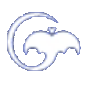
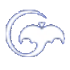
Header - OK / asssets items added

diff --git a/src/components/Header/styles.ts b/src/components/Header/styles.ts
@@ -1,0 +1,97 @@
+import styled from 'styled-components';
+
+export const Container = styled.header`
+  background: var(--azul);
+`
+
+export const Content = styled.div`
+  width: 100%;
+
+  padding: 0.5rem 1rem;
+  display:flex;
+
+  justify-content: space-between;
+  
+  .header-items-left {
+    img {
+      &:first-child {
+        margin-right: 1rem;
+        height: 3.1rem;
+      }
+    }
+    align-items: center;
+    width: 50%;
+    display:flex;
+
+    div {
+      color: #fff;
+      
+      span{
+        display: flex;
+        &:first-child {
+          font-weight: 900;
+          font-size: 1.3rem;
+          line-height: 1.1rem;
+          font-family: cursive;
+        }
+        
+        &:last-child {
+          font-weight: 700;
+          font-size: 0.7rem;
+        }
+      }
+    }
+  }
+  
+  .header-items-right {
+    display:flex;
+    
+    .search-area {
+      display:flex;
+      align-items: center;
+
+      button {
+        outline: none;
+        padding: 0.3rem;
+        border-radius: 12px 0 0 12px;
+        border: none;
+        /* border-color:transparent; */
+        background-color: var(--background);
+        /* margin-right: -1px; */
+        
+        img{
+          padding: 0.4rem;
+          height: 2rem;
+        }
+      }
+      
+      input {
+        outline: none;
+        background-color: var(--background);
+        width: 30rem;
+        padding: 0.6rem 1rem;
+        
+        border-radius: 0 12px 12px 0;
+        /* border-style: outset; */
+        border: none;
+        
+        color: var(--cinza);
+        font-weight: 600;
+        font-size: 1.3rem;
+      }
+    }
+
+    .icons-area{
+      display:flex;
+    
+      .profile-img {
+        border-radius: 50%;
+        height: 3rem;
+      }
+      img {
+        margin: auto 1.7rem;
+        height: 1.5rem;
+      }
+    }
+  }
+`

diff --git a/src/components/Header/index.tsx b/src/components/Header/index.tsx
@@ -1,0 +1,45 @@
+import logoSquareImg from '../../assets/icon_squares.png';
+import logoWetBatImg from '../../assets/Bat.png';
+
+import iconSearchImg from '../../assets/icon_search.png';
+
+import iconNotificationImg  from '../../assets/icon_Notification.png';
+import iconMessageImg       from '../../assets/icon_Message.png';
+import iconSettingsImg      from '../../assets/icon_Settings.png';
+import profileImg           from '../../assets/profile_Img.jpg';
+
+import { Container, Content } from './styles'
+
+export function Header() {
+  return (
+    <Container>
+      <Content>
+        <div className="header-items-left">
+          <img src={logoSquareImg} alt="Logo Square"/>
+          <img src={logoWetBatImg} alt="Logo WetBat"/>
+          <div>
+            <span>Wet Bat</span>
+            <span>TRAVEL</span>
+          </div>
+        </div>
+
+
+        <div className="header-items-right">
+          <div className="search-area">
+            <button type="button">
+              <img src={iconSearchImg} alt="serch"/>
+            </button>
+            <input type="text" ></input>
+          </div>
+          <div className="icons-area">
+            <img src={iconNotificationImg} alt="Notifications"/>
+            <img src={iconMessageImg} alt="Messages"/>
+            <img src={iconSettingsImg} alt="Settings"/>
+            <img src={profileImg} alt="Profile" className="profile-img"/>
+          </div>
+        </div>
+
+      </Content>
+    </Container>
+  )
+}

diff --git a/src/App.tsx b/src/App.tsx
@@ -1,15 +1,11 @@
-// import 'App.css';
-
+import { Header } from "./components/Header";
 import { GlobalStyle } from "./styles/global";
 
 export function App() {
   return (
-    <div className="App">
-      <h1>Quick quote</h1>
-      <h1>Katty Abcdefghgj</h1>
+    <>
+      <Header/>
       <GlobalStyle/>
-    </div>
+    </>
   );
 }
-
-// export default App;

diff --git a/src/styles/global.ts b/src/styles/global.ts
@@ -3,11 +3,15 @@ import { createGlobalStyle } from "styled-components";
 export const GlobalStyle = createGlobalStyle`
   :root {
     --background: #EDF0F9;
+    
     --verde-forte: #5bbfba;
+    --verde-claro: #a4d4ae;
+
     --azul: #5f6caf;
     --amarelo: #e7f0c3;
     --laranja: #f0cf85;
-    --verde-claro: #a4d4ae;
+
+    --cinza: #7a7a7a;
   }
   
   * {

diff --git a/public/index.html b/public/index.html
@@ -11,7 +11,7 @@
     
     <title>Wet Bat</title>
     
-    <link href="https://fonts.googleapis.com/css2?family=Poppins&family=Raleway&display=swap" rel="stylesheet">
+    <link href="https://fonts.googleapis.com/css2?family=Raleway,wght@0,900&display=swap" rel="stylesheet">
 
   </head>
   <body>
